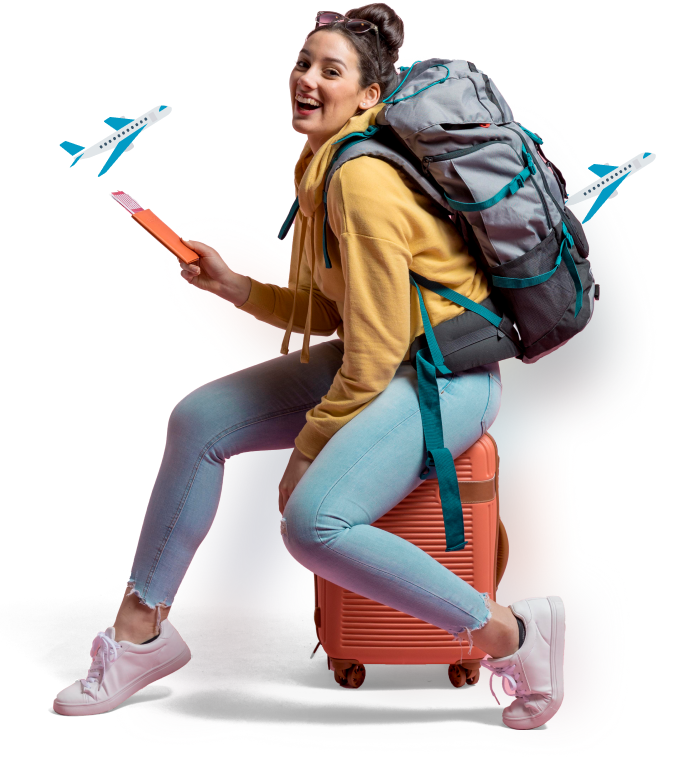
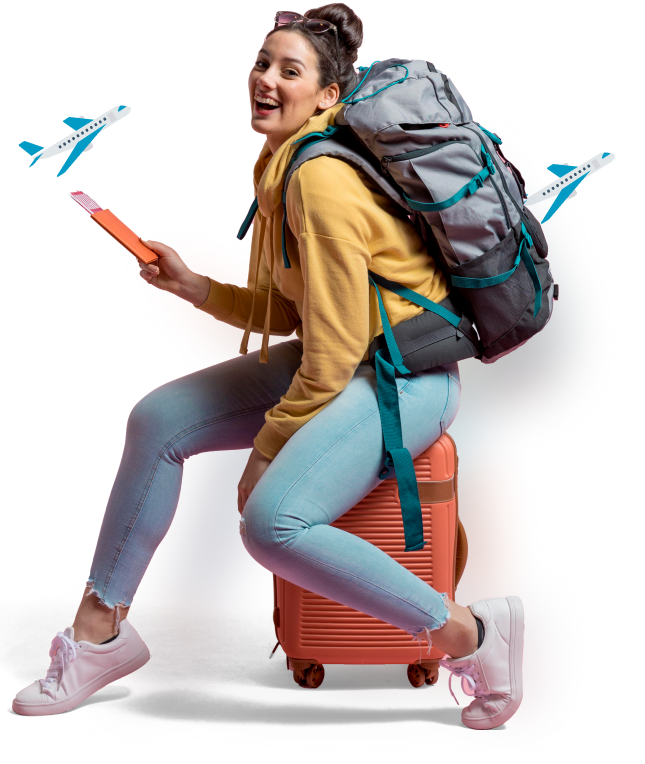
updated navbar and hero section

diff --git a/app/hero.jsx b/app/hero.jsx
@@ -6,27 +6,27 @@ import { IoPlaySharp } from "react-icons/io5";
 
 const Hero = () => {
   return (
-    <div className="container mx-auto px-1">
-      <div className="flex max-md:flex-col items-center">
+    <div className="container mx-auto ">
+      <div className="flex max-md:flex-col items-center h-calC100 ">
         <div className="md:flex-1">
-          <p className="text-[#DF6951] sm:text-xl text-md sm:pb-10 pb-2 max-sm:mt-4 font-extrabold tracking-wide uppercase">
+          <p className="text-[#DF6951] sm:text-xl text-md lg:pb-10 pb-2 max-sm:mt-4 font-extrabold tracking-wide uppercase">
             Best Destinations around the world
           </p>
           <div className="flex items-center gap-3">
             <div>
-              <h1 className="lg:text-[90px] sm:text-[60px] text-[40px] font-bold font-Volkhov text-[#181E4B] leading-10 ">
+              <h1 className="lg:text-[84px] sm:text-[60px] text-[40px] font-bold font-Volkhov text-[#181E4B] leading-10 ">
                 Travel,
               </h1>
             </div>
             <div>
-              <h1 className="lg:text-[90px] sm:text-[60px] text-[40px] z-10 font-bold font-Volkhov text-[#181E4B] leading-10 ">
+              <h1 className="lg:text-[84px] sm:text-[60px] text-[40px] z-10 font-bold font-Volkhov text-[#181E4B] leading-10 relative">
                 enjoy
               </h1>
-              <Image className="sm:-mt-9 enjoy-img -mt-7 -ms-4 absolute lg:w-[385px] sm:w-[250px] w-[200px] -z-2" src={Heroenjoy} />
+              <Image className="sm:-mt-9 enjoy-img -mt-7 -ms-4 absolute lg:w-[385px] sm:w-[250px] w-[200px] " src={Heroenjoy} />
             </div>
           </div>
           <div>
-            <h1 className="lg:text-[90px] sm:text-[60px] text-[40px] font-bold font-Volkhov text-[#181E4B] leading-tight -my-5 ">
+            <h1 className="lg:text-[84px] sm:text-[60px] text-[40px] font-bold font-Volkhov text-[#181E4B] leading-tight -my-5 ">
               and live a new and full life
             </h1>
             <p className="text-[#5E6282] text-base capitalize font-medium sm:w-[477px] mt-7 leading-8">
@@ -50,7 +50,7 @@ const Hero = () => {
 
         {/* asd */}
 
-        <div className="md:flex-1 ">
+        <div className="md:flex-1 md:justify-start md:flex">
           <Image className="max-md:w-[300px]" src={HeroGirl} />
         </div>
       </div>

diff --git a/tailwind.config.js b/tailwind.config.js
@@ -16,6 +16,9 @@ module.exports = {
         xl: "1200px",
         xxl: "1400px",
       },
+      height: {
+        calC100: "calc(100vh - 80px)",
+      },
       backgroundImage: {
         bodyBG: "url('/images/bg.png')",
         heroBG: "url('/images/heroBG.png')",
